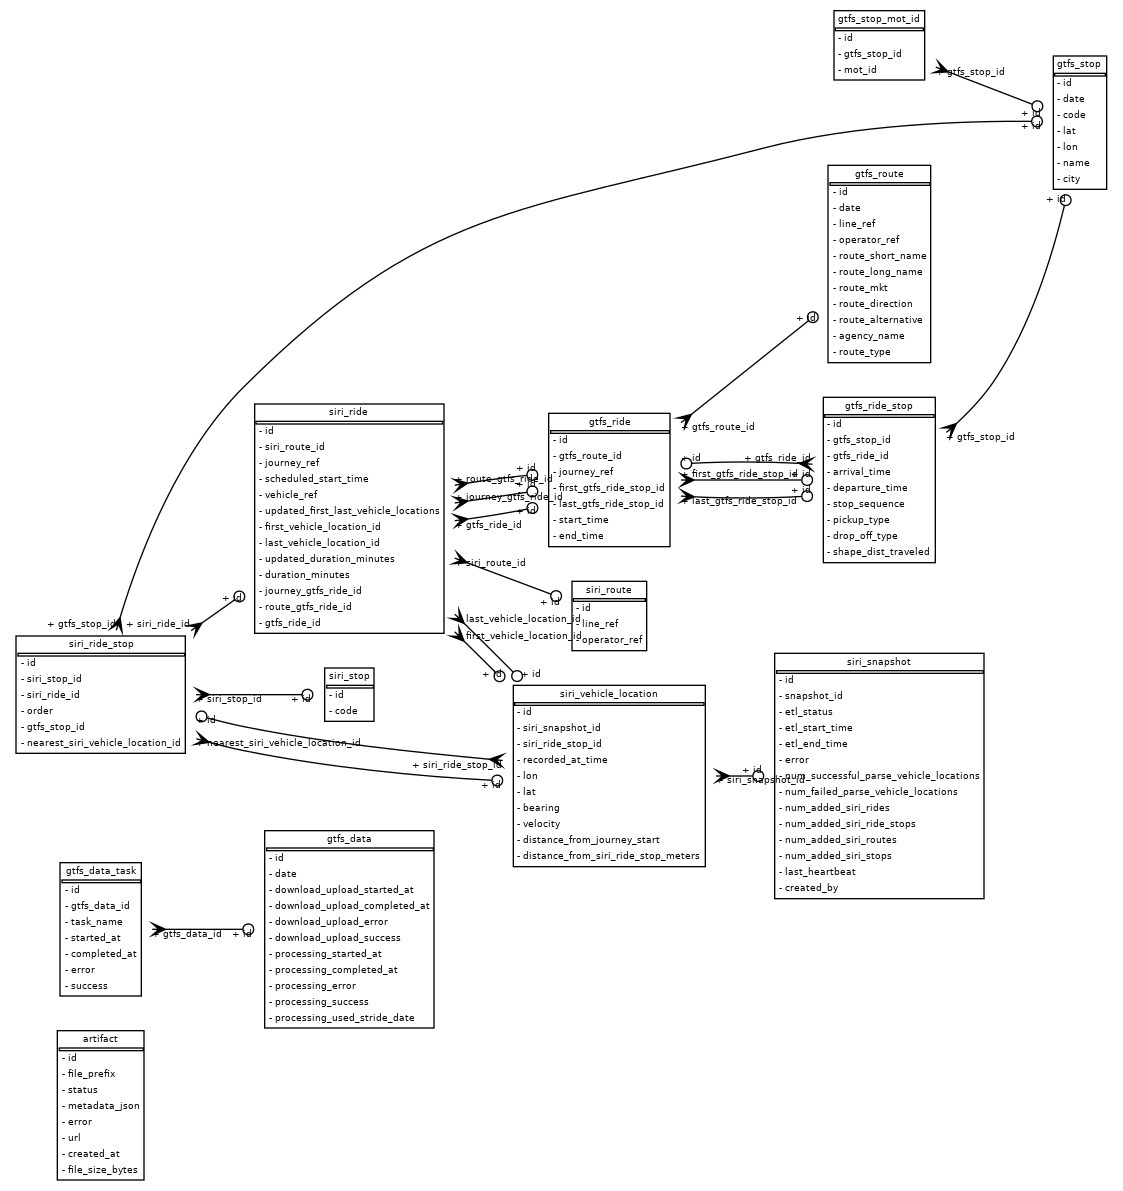
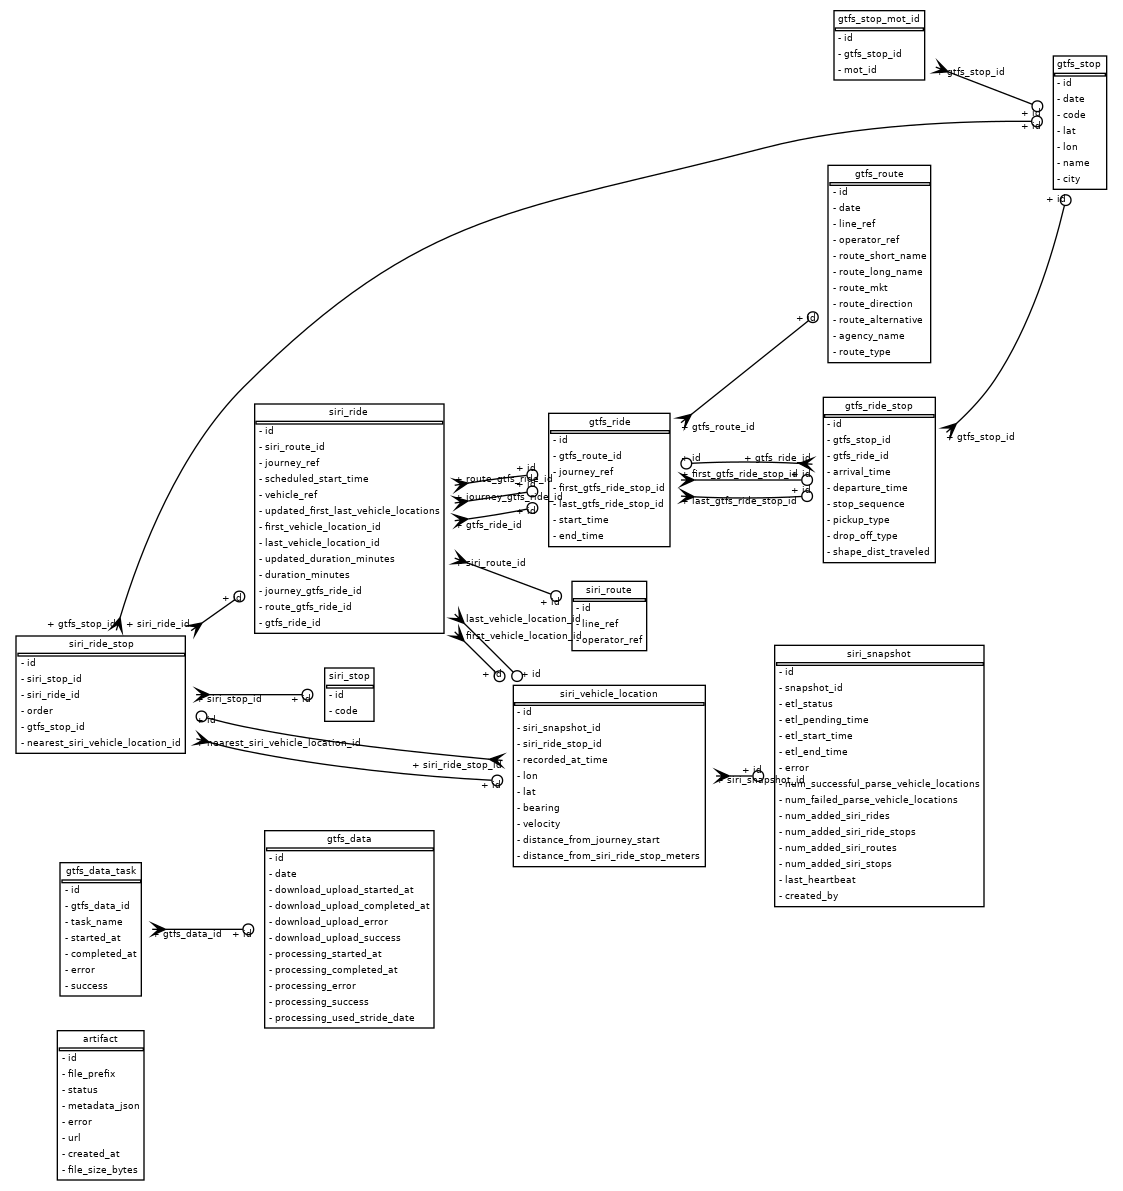
automatic update of the data model documentation

Changed region(s): [[0.6857, 0.5281, 0.8727, 0.7767]]

diff --git a/DATA_MODEL.md b/DATA_MODEL.md
@@ -371,6 +371,13 @@ Uses the following format: year/month/day/hours/minutes (e.g. 2022/03/09/11/08).
 
 Describes the ETL status of this snapshot, 
 only snapshots with status "loaded" should be considered ready for usage.
+pending: The snapshot was received from MOT but was not loaded yet.
+loading: The snapshot is currently being loaded.
+loaded: The snapshot was successfully loaded.
+error: An error occured during snapshot loading / processing.
+deleted: The snapshot was manually deleted to allow reloading.
+
+#### siri_snapshot.etl_pending_time
 
 #### siri_snapshot.etl_start_time
 
